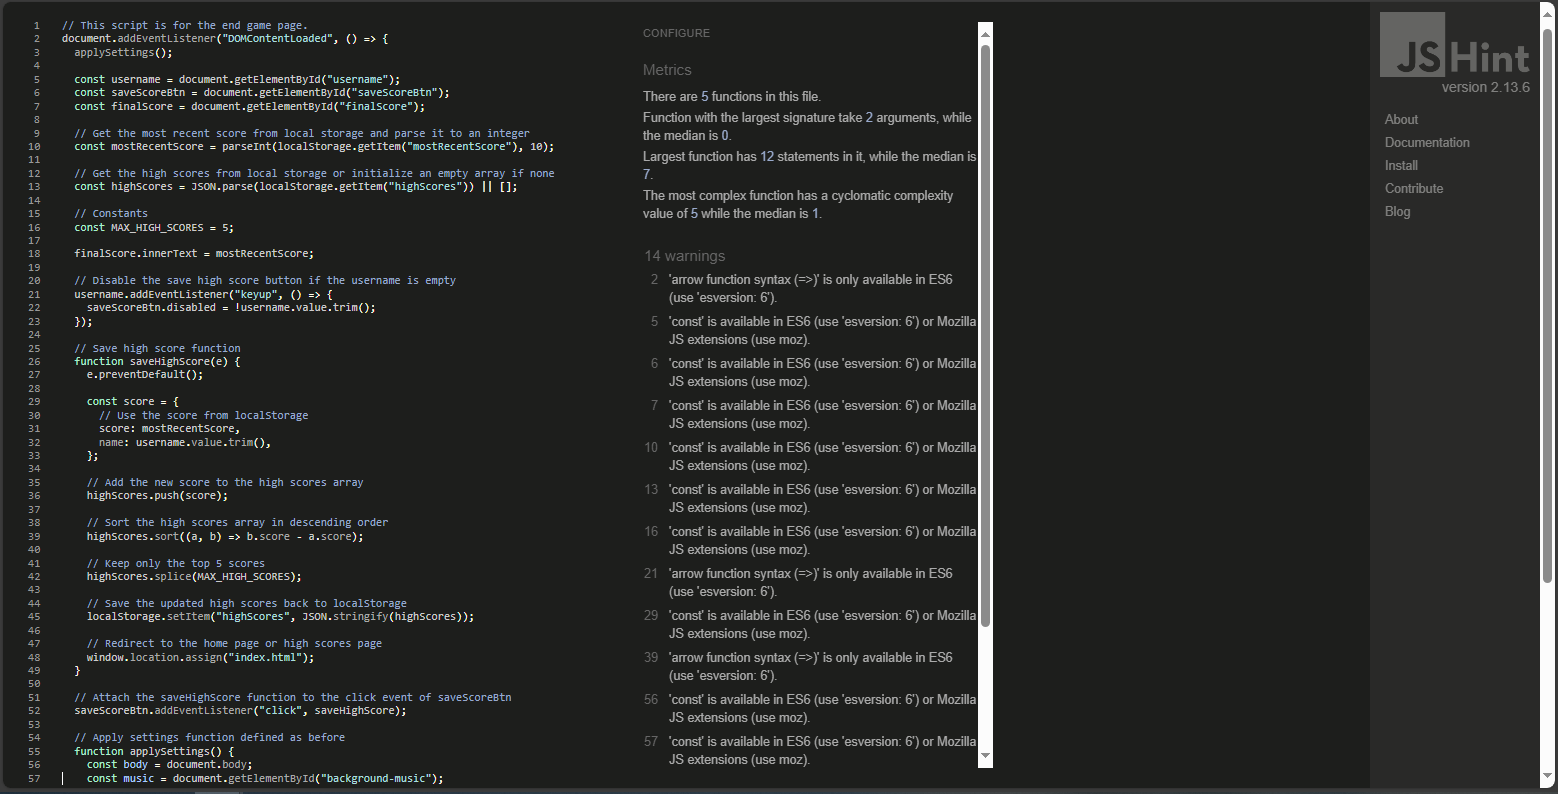
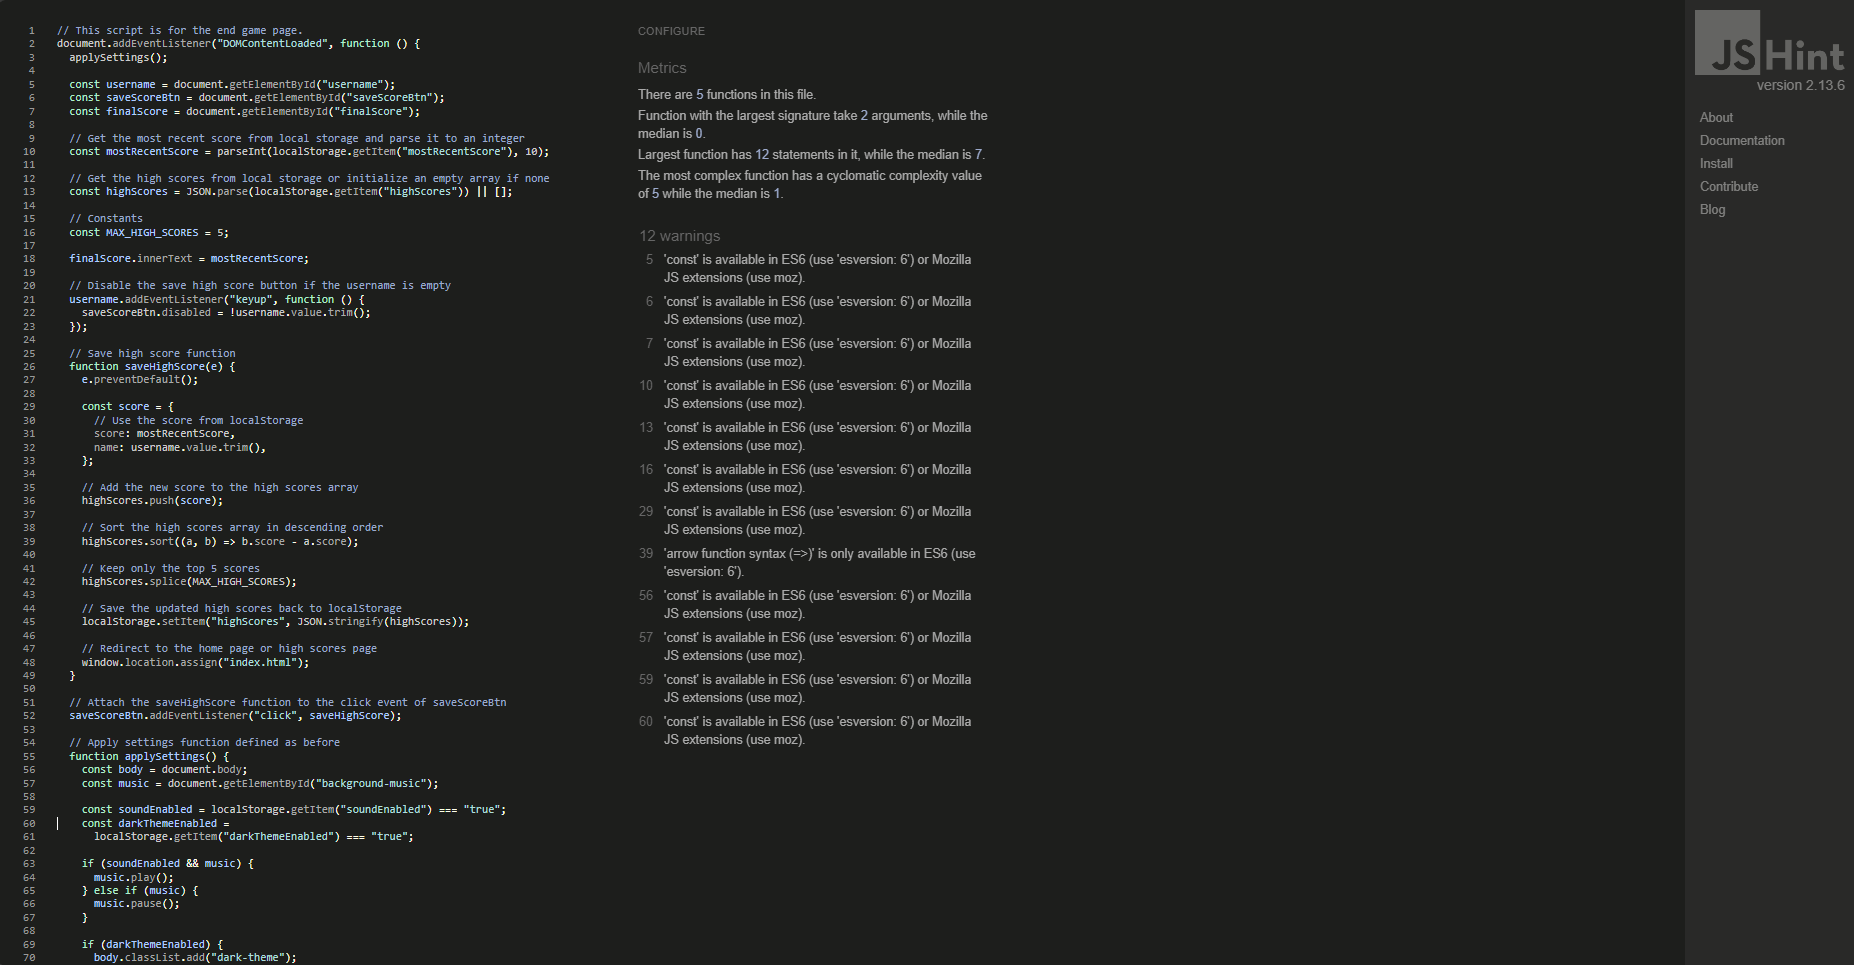
Validate and update javascript codes and jshint validation

Changed region(s): [[0.0, 0.0, 1.0, 1.0], [0.4313, 0.0302, 0.4621, 0.0605], [0.3389, 0.0, 0.3697, 0.0302]]

diff --git a/assets/js/settings.js b/assets/js/settings.js
@@ -26,7 +26,7 @@ document.addEventListener("DOMContentLoaded", function () {
   }
 
   // Event listeners for the checkboxes
-  soundCheckbox.addEventListener("change", () => {
+  soundCheckbox.addEventListener("change", function () {
     if (soundCheckbox.checked) {
       music.currentTime = 0; // Reset time to start music from the beginning
       music.play().catch((e) => console.error("Error playing music:", e));
@@ -41,7 +41,7 @@ document.addEventListener("DOMContentLoaded", function () {
   });
 
   // Event listener for applying theme
-  themeCheckbox.addEventListener("change", () => {
+  themeCheckbox.addEventListener("change", function () {
     if (themeCheckbox.checked) {
       body.classList.add("dark-theme");
       localStorage.setItem("darkThemeEnabled", "true");
@@ -53,7 +53,7 @@ document.addEventListener("DOMContentLoaded", function () {
 });
 
 // Save the current time of the music when navigating away from the page, if sound is enabled
-window.addEventListener("beforeunload", () => {
+window.addEventListener("beforeunload", function () {
   if (localStorage.getItem("soundEnabled") === "true" && music) {
     localStorage.setItem("musicTime", music.currentTime.toString());
   }

diff --git a/assets/js/clear-score.js b/assets/js/clear-score.js
@@ -4,7 +4,7 @@ document.addEventListener("DOMContentLoaded", function () {
 });
 
 // Function to clear high scores from local storage
-clearHighScores = () => {
+function clearHighScores () {
   // User confirmed, clear high scores from local storage
   localStorage.removeItem("highScores");
 
@@ -13,7 +13,7 @@ clearHighScores = () => {
 }
 
 // Function to set up event listeners
-setupEventListeners = () => {
+function setupEventListeners() {
   const clearButton = document.querySelector(".yes-button");
   if (clearButton) {
     clearButton.addEventListener("click", clearHighScores);
@@ -21,7 +21,7 @@ setupEventListeners = () => {
 }
 
 // Function to apply settings for sound and dark theme
-applySettings = () => {
+function applySettings() {
   const body = document.body;
   const music = document.getElementById("background-music");
 

diff --git a/assets/js/end-game.js b/assets/js/end-game.js
@@ -1,5 +1,5 @@
 // This script is for the end game page.
-document.addEventListener("DOMContentLoaded", () => {
+document.addEventListener("DOMContentLoaded", function () {
   applySettings();
 
   const username = document.getElementById("username");
@@ -18,7 +18,7 @@ document.addEventListener("DOMContentLoaded", () => {
   finalScore.innerText = mostRecentScore;
 
   // Disable the save high score button if the username is empty
-  username.addEventListener("keyup", () => {
+  username.addEventListener("keyup", function () {
     saveScoreBtn.disabled = !username.value.trim();
   });
 

diff --git a/assets/js/high-score.js b/assets/js/high-score.js
@@ -1,4 +1,5 @@
-document.addEventListener("DOMContentLoaded", () => {
+// javascript for highscore page
+document.addEventListener("DOMContentLoaded", function () {
   applySettings();
   displayHighScores();
 });
@@ -14,7 +15,7 @@ function displayHighScores() {
       return `<li class="high-score">${score.name} - ${score.score}</li>`;
     })
     .join("");
-};
+}
 
 // Function to apply settings for sound and dark theme
 function applySettings() {
@@ -38,4 +39,4 @@ function applySettings() {
   } else {
     body.classList.remove("dark-theme");
   }
-};
+}

diff --git a/assets/js/background-music.js b/assets/js/background-music.js
@@ -11,7 +11,7 @@ document.addEventListener("DOMContentLoaded", function () {
 });
 
 // Save the music time when the user leaves the page
-window.addEventListener("beforeunload", () => {
+window.addEventListener("beforeunload", function () {
   const music = document.getElementById("background-music");
   if (music) {
     localStorage.setItem("musicTime", music.currentTime.toString());

diff --git a/assets/js/difficulty.js b/assets/js/difficulty.js
@@ -4,7 +4,7 @@ document.addEventListener("DOMContentLoaded", function () {
 });
 
 // Set the difficulty level
-setDifficulty = (level) => {
+function setDifficulty(level) {
   localStorage.setItem("difficulty", level);
 
   // Redirect to the game page

diff --git a/assets/js/my-game.js b/assets/js/my-game.js
@@ -1,5 +1,5 @@
 // This file contains the JavaScript code for my game.
-document.addEventListener("DOMContentLoaded", () => {
+document.addEventListener("DOMContentLoaded", function () {
   // Apply settings
   applySettings();
 

diff --git a/assets/js/script.js b/assets/js/script.js
@@ -1,3 +1,4 @@
+// Javascript for home page & how to play page
 document.addEventListener("DOMContentLoaded", function () {
     const body = document.body;
     const music = document.getElementById("background-music");

diff --git a/testing.md b/testing.md
@@ -280,9 +280,9 @@ The CSS files were validated using the [W3C CSS Validation Service](https://jigs
 
 JavaScript code was tested for syntax errors and compatibility issues to ensure seamless interactivity and functionality across different browsers. Tools such as [JSHint](https://jshint.com/) were utilized for this purpose.
 
-| High Score Page | Difficulty Level Page | Game Page | Exit Page  | End Game Page | Settings Page | background-music  | Clear Score Page |
-|---------------|-------------|---------------|---------------------|---------------------|---------------------|---------------------| ---------------------|
-|![js](testing/code-validation/javascript-validation/high-score.PNG)|![js](testing/code-validation/javascript-validation/difficulty-page.PNG)|![js](testing/code-validation/javascript-validation/game-page.PNG)|![js](testing/code-validation/javascript-validation/exit-game.PNG)|![js](testing/code-validation/javascript-validation/end-game.PNG)|![js](testing/code-validation/javascript-validation/settings.PNG)|![js](testing/code-validation/javascript-validation/background-music.PNG)|![js](testing/code-validation/javascript-validation/clear-score.PNG)|
+| High Score Page | Difficulty Level Page | Game Page | Exit Page  | End Game Page | Settings Page | background-music  | Clear Score Page |Script |
+|---------------|-------------|---------------|---------------------|---------------------|---------------------|---------------------| ---------------------|---------------------|
+|![js](testing/code-validation/javascript-validation/high-score.PNG)|![js](testing/code-validation/javascript-validation/difficulty-page.PNG)|![js](testing/code-validation/javascript-validation/game-page.PNG)|![js](testing/code-validation/javascript-validation/exit-game.PNG)|![js](testing/code-validation/javascript-validation/end-game.PNG)|![js](testing/code-validation/javascript-validation/settings.PNG)|![js](testing/code-validation/javascript-validation/background-music.PNG)|![js](testing/code-validation/javascript-validation/clear-score.PNG)|![js](testing/code-validation/javascript-validation/script.PNG)|
 
 Through rigorous validation and testing, the Toons Quiz Game aims to deliver a reliable, accessible, and enjoyable experience for all users.
 
